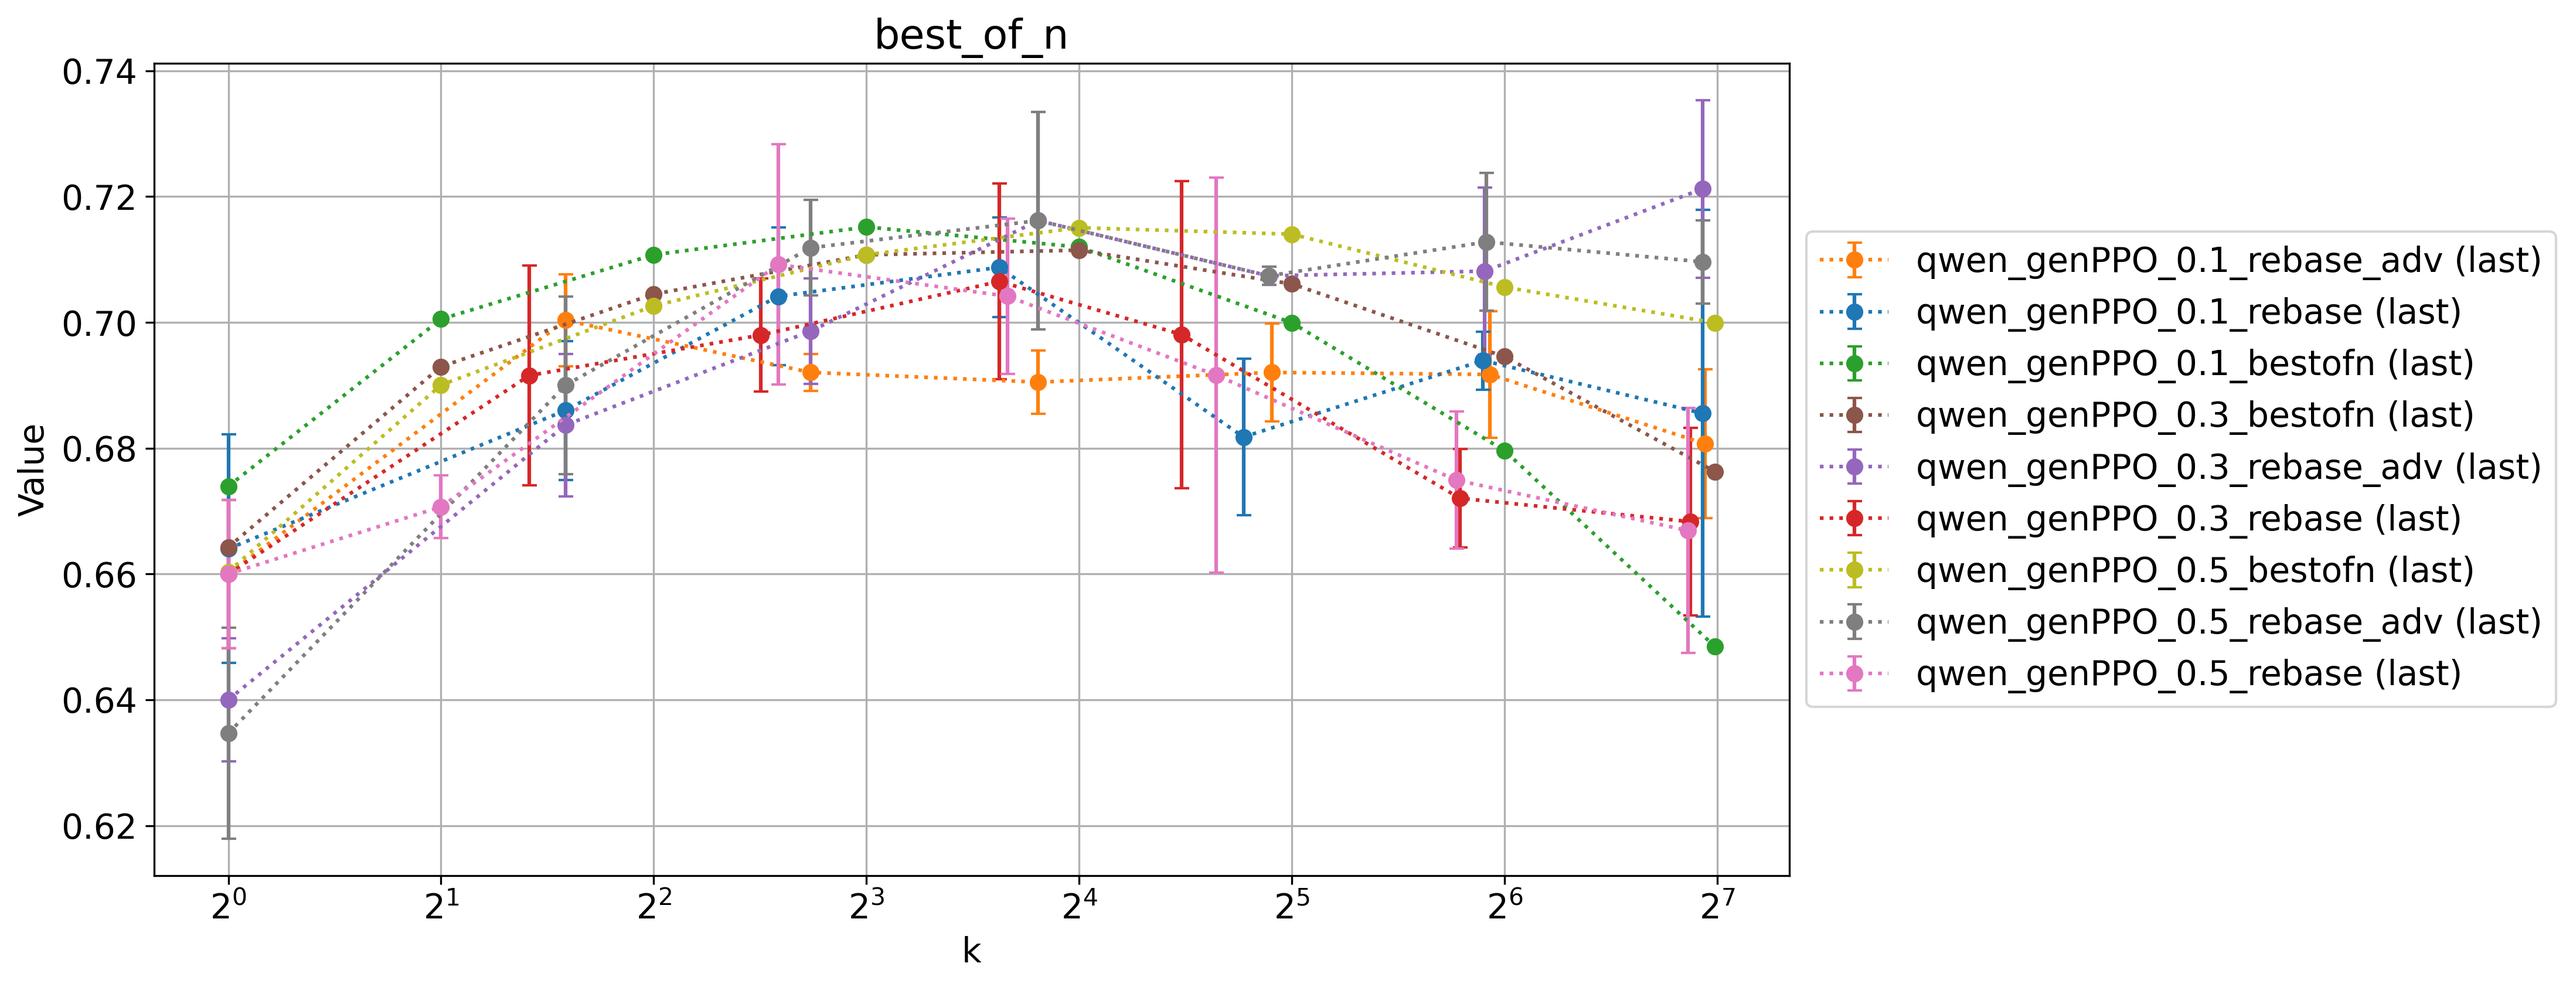
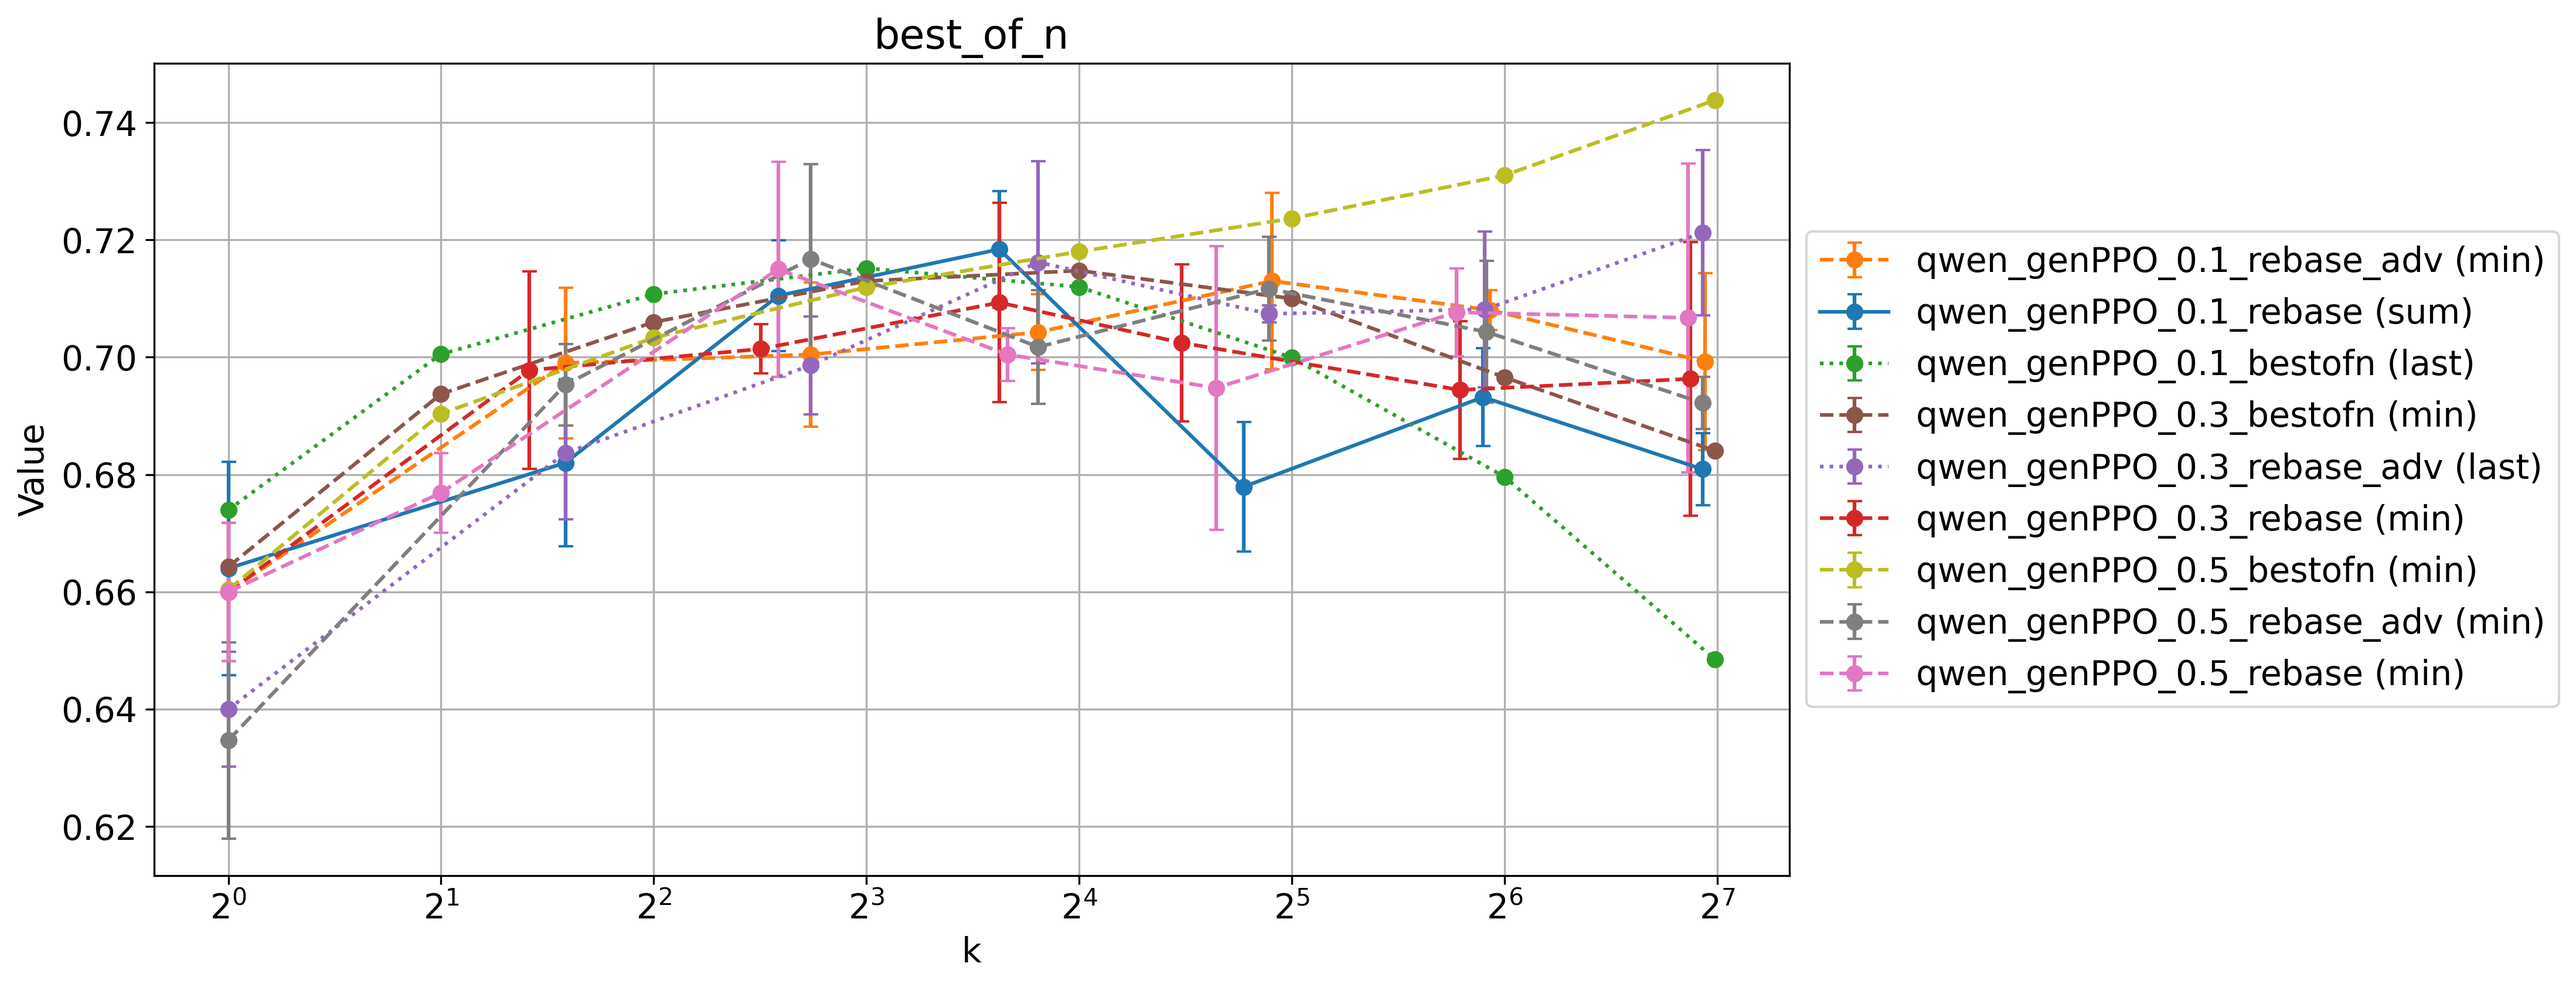
updated plots

diff --git a/plotting/plot.py b/plotting/plot.py
@@ -41,7 +41,7 @@ def get_base_colors(method_names):
 
     return {method: colors[i] for i, method in enumerate(method_names)}
 
-def plot_method(method_data, model, file, fig_maj, fig_bon, fig_wmaj, fig_pan, fig_tok, color_dict, suffix_to_plot):
+def plot_method(method_data, model, file, fig_maj, fig_bon, fig_wmaj, fig_pan, fig_tok, color_dict, suffix_to_plot, only_best_suffix=False):
     # Extract the metric names
     search_method = file.split(".")[0].split("_")[0]
     method_data["suffix"] = method_data["metric"].apply(lambda x: x.split("_")[-1] if "_" in x else "")
@@ -106,9 +106,19 @@ def plot_method(method_data, model, file, fig_maj, fig_bon, fig_wmaj, fig_pan, f
                     ax.set_yscale("log", base=2)
                 ax.grid(True)
             else:
+                if only_best_suffix:
+                    best_suffix = None
+                    best_row_idx = sub_data.idxmax()["value"]
+                    best_row = sub_data.loc[best_row_idx]
+                    best_suffix = best_row["suffix"]
+
                 for suffix, linestyle in linestyle_map.items():
                     if suffix not in suffix_to_plot:
                         continue
+
+                    if only_best_suffix and suffix != best_suffix:
+                        continue
+
                     sub_sub_data = sub_data[sub_data["metric"].str.endswith(suffix)]
                     # sort by true_k
                     sub_sub_data = sub_sub_data.sort_values("true_k")
@@ -134,7 +144,7 @@ def plot_method(method_data, model, file, fig_maj, fig_bon, fig_wmaj, fig_pan, f
 def flatten_list(l):
     return [item for sublist in l for item in sublist]
     
-def plot_all(data, model_names, save_path="plots", suffix_to_plot=["sum", "min", "last"]):
+def plot_all(data, model_names, save_path="plots", suffix_to_plot=["sum", "min", "last"], best_suffix=False):
     model_and_search_names  = [[f"{model}_rebase", f"{model}_rebase_adv", f"{model}_bestofn"] for model in model_names]
     model_and_search_names = flatten_list(model_and_search_names)
 
@@ -146,7 +156,7 @@ def plot_all(data, model_names, save_path="plots", suffix_to_plot=["sum", "min",
     f_tok = plt.figure(figsize=(12, 6), dpi=300)
 
     for (model, file), model_data in data.items():
-        fig_maj, fig_bon, fig_wmaj, fig_pan, fig_tok = plot_method(model_data, model, file, f_maj, f_bon, f_wmaj, f_pan, f_tok, color_dict, suffix_to_plot=suffix_to_plot)
+        fig_maj, fig_bon, fig_wmaj, fig_pan, fig_tok = plot_method(model_data, model, file, f_maj, f_bon, f_wmaj, f_pan, f_tok, color_dict, suffix_to_plot=suffix_to_plot, only_best_suffix=best_suffix)
 
     if not os.path.exists(save_path):
         os.makedirs(save_path)
@@ -209,8 +219,8 @@ def plot_best_comparison(data, model_names, save_path, color_dict):
 
 
 if __name__ == "__main__":
-    # model_names = ["qwen_genPPO_0.1" , "qwen_genPPO_0.3", "qwen_genPPO_0.5"]
-    model_names = ["qwen_genPPO_0.1"]
+    model_names = ["qwen_genPPO_0.1" , "qwen_genPPO_0.3", "qwen_genPPO_0.5"]
+    # model_names = ["qwen_genPPO_0.1"]
     data = load_csvs(model_names)
-    # plot_all(data, model_names, save_path="plots/overall", suffix_to_plot=["last"])
-    plot_all(data, model_names, save_path="plots/qwen_genPPO_0.1", suffix_to_plot=["sum", "min", "last"])
+    plot_all(data, model_names, save_path="plots/overall", suffix_to_plot=["sum", "min", "last"], best_suffix = True)
+    # plot_all(data, model_names, save_path="plots/qwen_genPPO_0.1", suffix_to_plot=["sum", "min", "last"])
